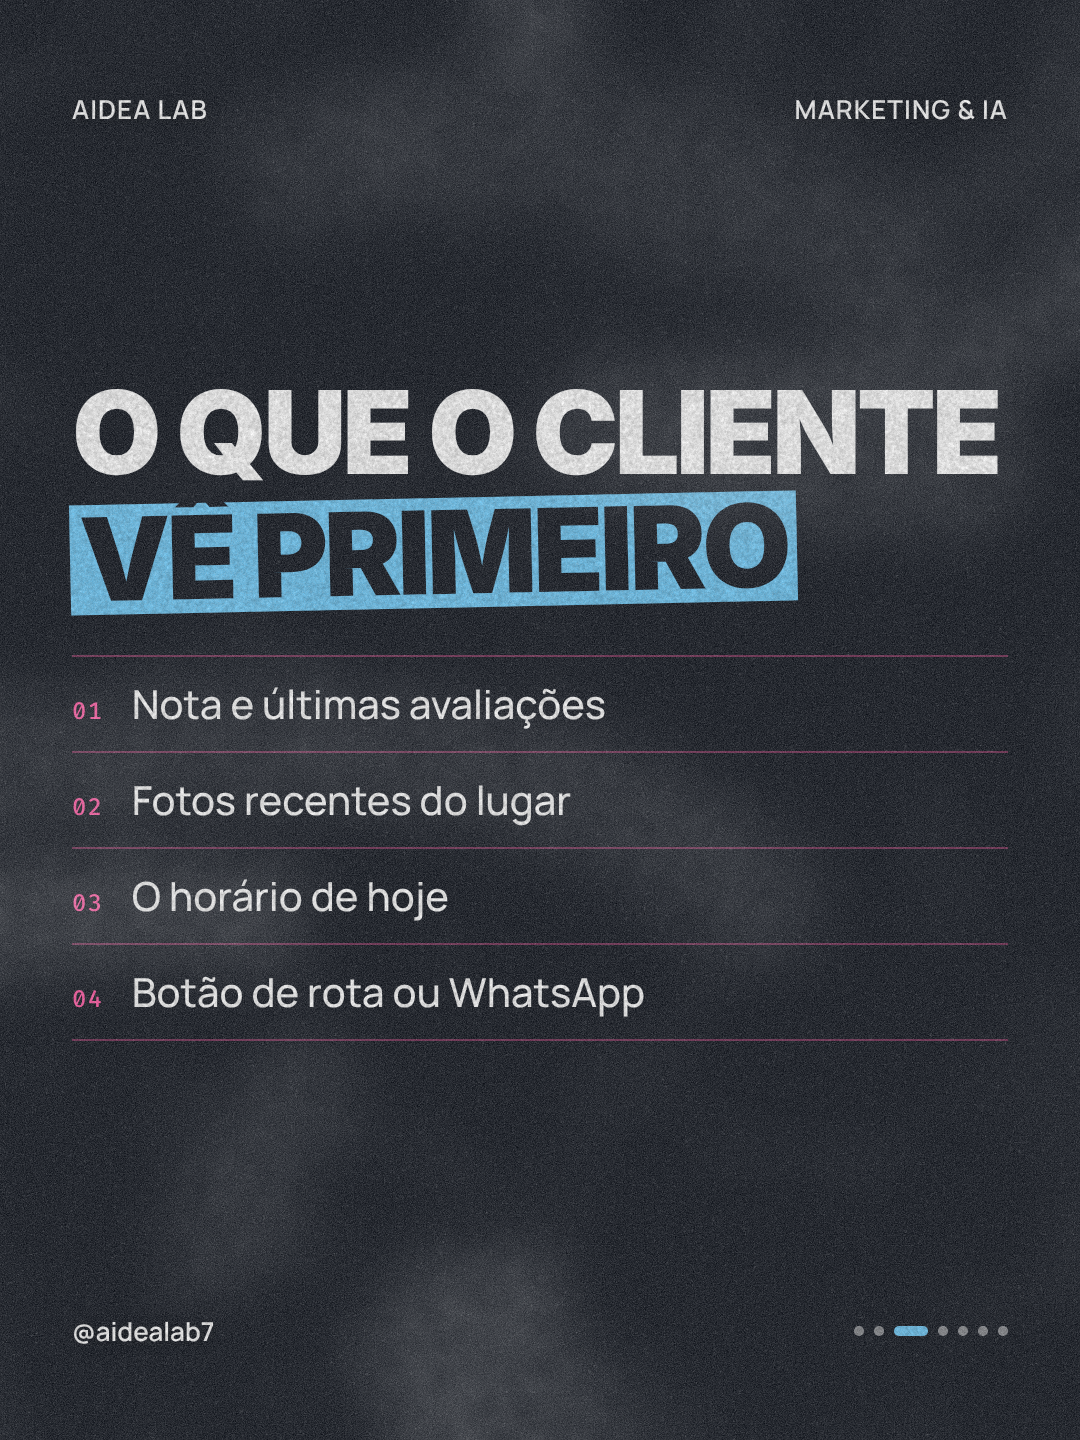
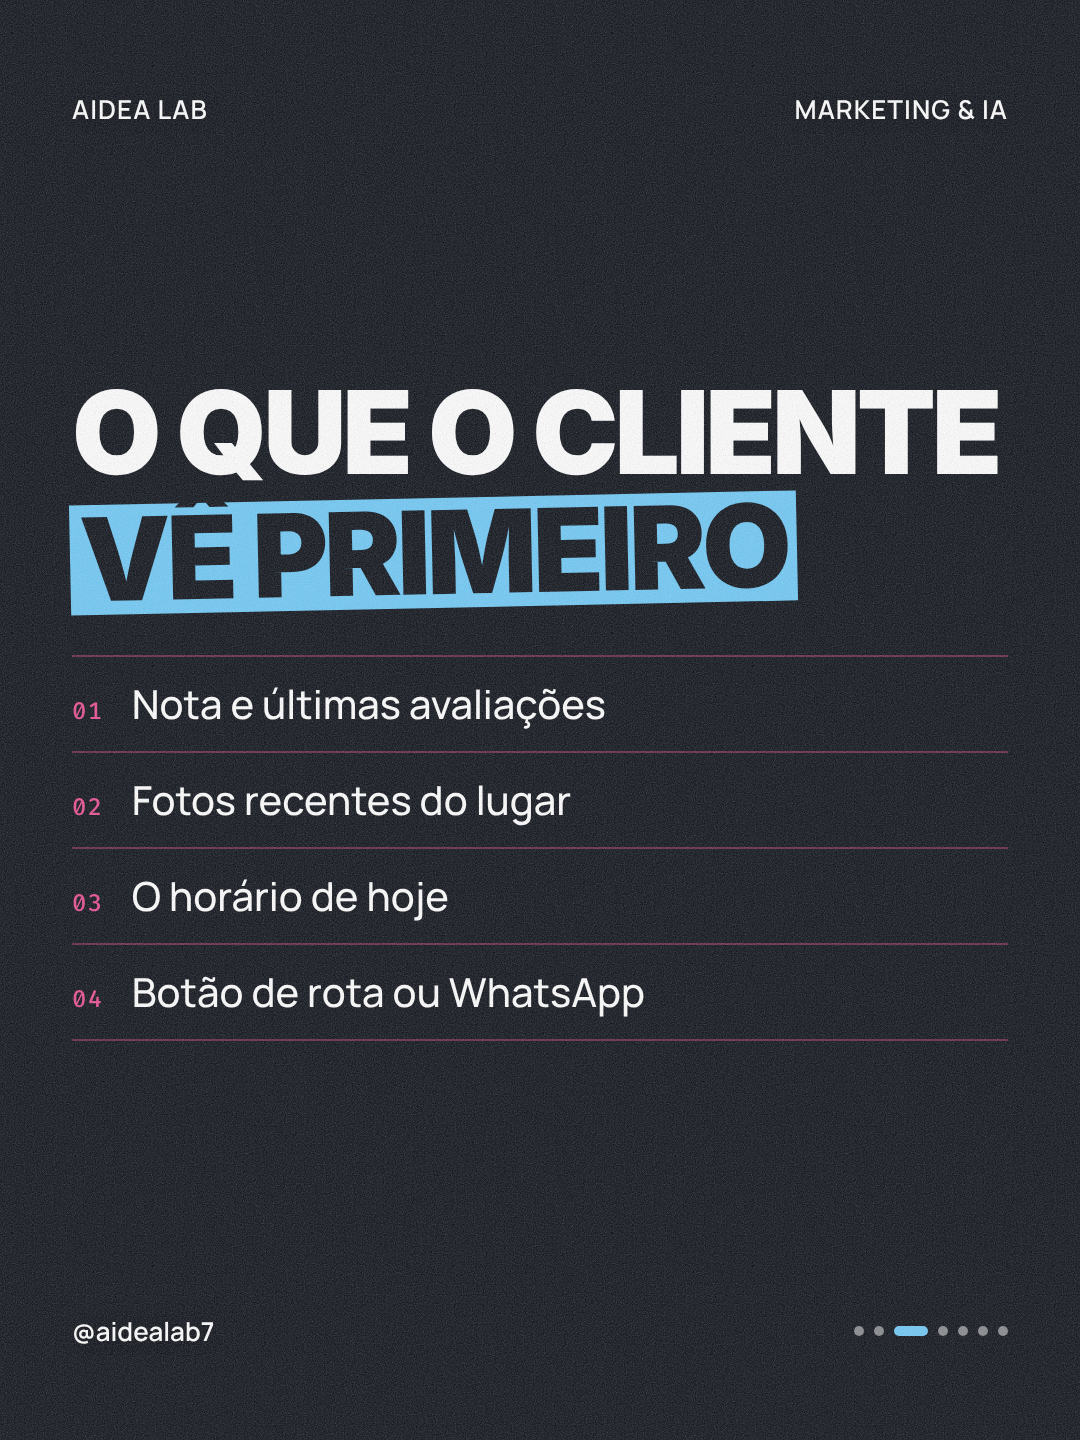
revert(aidealab): sai o quadro-negro do slide 3, volta o grain
- tema sem textura_slide.slide3; render.py e textura_foto.py sem quadro; filtro removido
- sync_fila_drive.py só trata hook e CTA
- textura_foto_drive.py devolve o slide 3 à versão limpa e tenta de novo (num_retries)
  quando a API do Drive dá timeout
- slide 3 dos carrosséis do repo restaurado (70ea718)

Claude-Session: https://claude.ai/code/session_012KyAE6tAMb32gBy6Q61w6r

diff --git a/motor/textura_foto.py b/motor/textura_foto.py
@@ -1,18 +1,16 @@
 """
 Texturas por papel do slide, configuradas no tema.json:
   "textura_foto": {"hook": "halftone"}       só na foto (imagem e recorte), o texto fica limpo
-  "textura_slide": {"cta": "cloth_letras", "slide3": "quadro"}   no slide inteiro, letras incluídas (PNG final);
-                                             slide3 só quando o slide 3 é T3 (texto em fundo escuro)
+  "textura_slide": {"cta": "cloth_letras"}   no slide inteiro, letras incluídas (aplicada no PNG final)
 - halftone: filtro_halftone.halftone (retícula de impresso)
 - cloth: trama de tecido assets/pano.png em soft-light 55% (a mesma da engine otalogia, --tex-pano)
 - cloth_letras: cloth + ±9% de luz/sombra dos fios, para a trama aparecer também nas letras brancas
-- quadro: quadro-negro na cor da marca (filtro_quadro.quadro)
 
 O render.py aplica na `imagem` e no `recorte` (alfa preservado) antes de desenhar o texto.
 Para slides já renderizados (fila/Drive, sem as fotos de origem), `aplicar_slide` protege o texto com uma máscara
 de cor + forma (branco, ciano quente, pílula do CTA) e texturiza o resto.
 
-Uso: python textura_foto.py <halftone|cloth|cloth_letras|quadro> <entrada> [saida] [--slide]   (--slide = só fora do texto)
+Uso: python textura_foto.py <halftone|cloth|cloth_letras> <entrada> [saida] [--slide]   (--slide = só fora do texto)
 """
 import sys
 from pathlib import Path
@@ -22,7 +20,6 @@ from PIL import Image
 from scipy import ndimage
 
 from filtro_halftone import halftone
-from filtro_quadro import quadro
 
 PANO = Path(__file__).resolve().parent / "assets" / "pano.png"
 
@@ -43,7 +40,7 @@ def cloth_letras(im):
     return Image.fromarray(((t * (1 + 0.09 * p)[..., None]).clip(0, 1) * 255).astype("uint8"))
 
 
-FILTROS = {"halftone": halftone, "cloth": cloth, "cloth_letras": cloth_letras, "quadro": quadro}
+FILTROS = {"halftone": halftone, "cloth": cloth, "cloth_letras": cloth_letras}
 
 
 def aplicar(im, tipo):

diff --git a/agente aidealab/automation/sync_fila_drive.py b/agente aidealab/automation/sync_fila_drive.py
@@ -41,14 +41,8 @@ sys.path.insert(0, str(REPO / "motor"))
 TEMA = REPO / "agente aidealab" / "clientes" / "aidealab" / "design-system" / "tema" / "tema.json"
 
 
-def slide3_texto(meta):
-    """Slide 3 T3 (texto em fundo escuro; T2/T2c são papel), pelo "template" do metadata (ex.: "T1-T2-T3-T5-T2c-T2-T4")."""
-    t = (meta.get("template") or "").split("-")
-    return len(meta.get("slides", [])) > 3 and len(t) > 2 and t[2] == "T3"
-
-
 def aplicar_textura(d, meta):
-    """Texturas do hook (1º slide), do CTA (último) e do slide 3 só de texto conforme o tema: "textura_foto" só fora do texto (máscara) e
+    """Texturas do hook (1º slide) e do CTA (último) conforme o tema: "textura_foto" só fora do texto (máscara) e
     "textura_slide" no slide inteiro, letras incluídas. Idempotente: pula pasta com qualquer marca de textura
     ("textura_foto", "textura_slide" ou o legado "halftone"); as já marcadas são refeitas pelo workflow
     textura-foto-drive.yml, que parte da versão limpa no histórico do Drive."""
@@ -63,16 +57,13 @@ def aplicar_textura(d, meta):
         return False
     tema = ler(TEMA)
     foto, slide = tema.get("textura_foto") or {}, tema.get("textura_slide") or {}
-    alvos = [("hook", meta["slides"][0]), ("cta", meta["slides"][-1])]
-    if slide3_texto(meta):
-        alvos.append(("slide3", meta["slides"][2]))
-    for papel, s in alvos:
+    for papel, s in (("hook", meta["slides"][0]), ("cta", meta["slides"][-1])):
         f = d / s["arquivo"]
         if foto.get(papel):
             aplicar_slide(Image.open(f), foto[papel]).save(f)
         if slide.get(papel):
             aplicar(Image.open(f), slide[papel]).save(f)
-    meta["textura_foto"], meta["textura_slide"], meta["slide3_t3"] = foto, slide, True
+    meta["textura_foto"], meta["textura_slide"] = foto, slide
     return True
 
 

diff --git a/agente aidealab/automation/cloud/textura_foto_drive.py b/agente aidealab/automation/cloud/textura_foto_drive.py
@@ -36,17 +36,17 @@ def baixar(req):
     d = MediaIoBaseDownload(buf, req)
     done = False
     while not done:
-        _, done = d.next_chunk()
+        _, done = d.next_chunk(num_retries=5)
     return buf.getvalue()
 
 
 def arquivos(svc, pasta):
-    r = svc.files().list(q=f"'{pasta}' in parents and trashed = false", fields="files(id,name)", pageSize=200).execute()
+    r = svc.files().list(q=f"'{pasta}' in parents and trashed = false", fields="files(id,name)", pageSize=200).execute(num_retries=5)
     return {f["name"]: f["id"] for f in r["files"]}
 
 
 def limpa(svc, fid):
-    revs = svc.revisions().list(fileId=fid, fields="revisions(id,modifiedTime)", pageSize=200).execute().get("revisions", [])
+    revs = svc.revisions().list(fileId=fid, fields="revisions(id,modifiedTime)", pageSize=200).execute(num_retries=5).get("revisions", [])
     if not revs:
         return baixar(svc.files().get_media(fileId=fid))
     antes = [r for r in revs if r["modifiedTime"] < LIMPO]
@@ -112,8 +112,8 @@ def main():
         if DRY:
             continue
         for arq, f in novos.items():
-            svc.files().update(fileId=fs[arq], media_body=MediaFileUpload(str(f), mimetype="image/png")).execute()
-        svc.files().update(fileId=fs["metadata.json"], media_body=MediaFileUpload(str(mj), mimetype="application/json")).execute()
+            svc.files().update(fileId=fs[arq], media_body=MediaFileUpload(str(f), mimetype="image/png")).execute(num_retries=5)
+        svc.files().update(fileId=fs["metadata.json"], media_body=MediaFileUpload(str(mj), mimetype="application/json")).execute(num_retries=5)
         d = repo.get(meta.get("carousel_id"))
         if d:  # mesma imagem na fila do repo (a publicação lê de lá)
             for arq, f in novos.items():

diff --git a/motor/render.py b/motor/render.py
@@ -118,9 +118,6 @@ def main():
     out_dir.mkdir(parents=True, exist_ok=True)
     # tema "textura_slide" {"hook"/"cta": tipo}: textura no slide inteiro, letras incluídas
     tsl = {1: tema.get("textura_slide", {}).get("hook"), n: tema.get("textura_slide", {}).get("cta")}
-    s3 = data["slides"][2] if n > 3 else {}
-    if s3.get("template") == "T3" and not s3.get("imagem"):  # slide 3 só de texto em fundo escuro (T3; papel não)
-        tsl[3] = tema.get("textura_slide", {}).get("slide3")
     for i, b in enumerate(shots, 1):
         png = out_dir / f"slide-{i:02d}.png"
         png.write_bytes(b)

diff --git a/agente aidealab/clientes/aidealab/design-system/templates/templates.md b/agente aidealab/clientes/aidealab/design-system/templates/templates.md
@@ -59,7 +59,6 @@ quanto for preciso.
 ## Texturas dos slides de texto (2026-10-05)
 
 - Slide 3: `"textura": "grain"`, só grão forte sobre o fundo liso, sem gradiente nem brilho de cor (nada de spotlight ciano ou rosa). O `compor.py` marca sozinho.
-- Slide 3 T3 (fundo escuro; T2/T2c são papel e ficam sem): quadro-negro na cor da marca por cima (`motor/filtro_quadro.py`: giz apagado, pó de giz, letras com falhas de giz), no slide inteiro, pelo `"textura_slide": {"slide3": "quadro"}` do `tema.json` (aprovado 2026-10-08).
 - Hook e CTA com personagem: título bold ATRÁS DO TOPO DA CABEÇA (cabelo/testa; capa de revista), nunca atrás do rosto nem do tronco/costas, e a frase handwritten (emocao) NA FRENTE do sujeito, sobre o corpo e nunca no rosto; o `compor.py` escolhe sozinho sempre que houver folga acima da cabeça (topo da cabeça em ~1/3 do quadro).
 - Texturas do hook e do CTA, pelo `tema.json` (`motor/textura_foto.py`): hook (slide 1) = `"textura_foto": {"hook": "halftone"}`, só na foto (imagem e recorte, antes do texto; texto limpo); CTA (último) = `"textura_slide": {"cta": "cloth_letras"}`, a trama de tecido `motor/assets/pano.png` (soft-light 55%, a mesma da engine otalogia) + ±9% de luz/sombra dos fios no slide INTEIRO, letras incluídas (aprovado 2026-10-08). O `sync_fila_drive.py` aplica nos aprovados que entram na FILA (marca `textura_foto`/`textura_slide` no metadata); o workflow `textura-foto-drive.yml` refaz as pastas já existentes a partir da versão limpa do Drive.
 - Demais slides de lista e o de conclusão: `"textura": "led"`.
